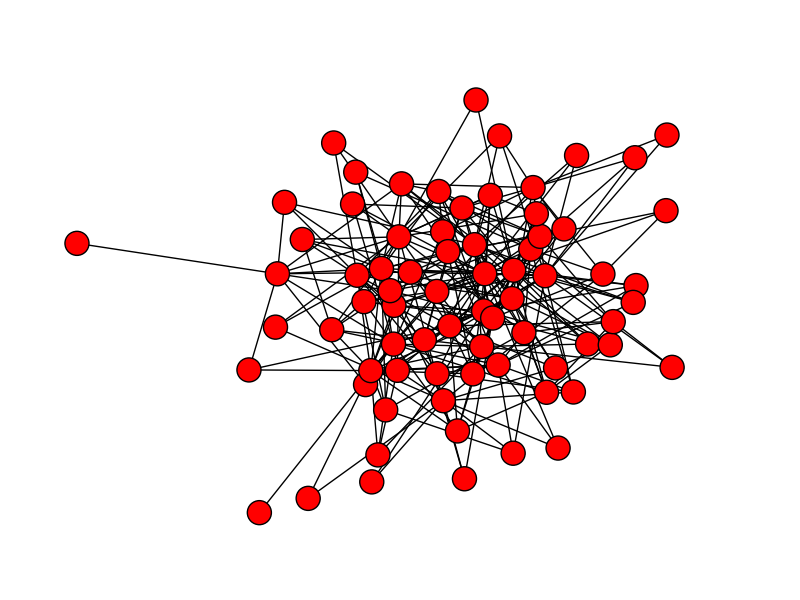
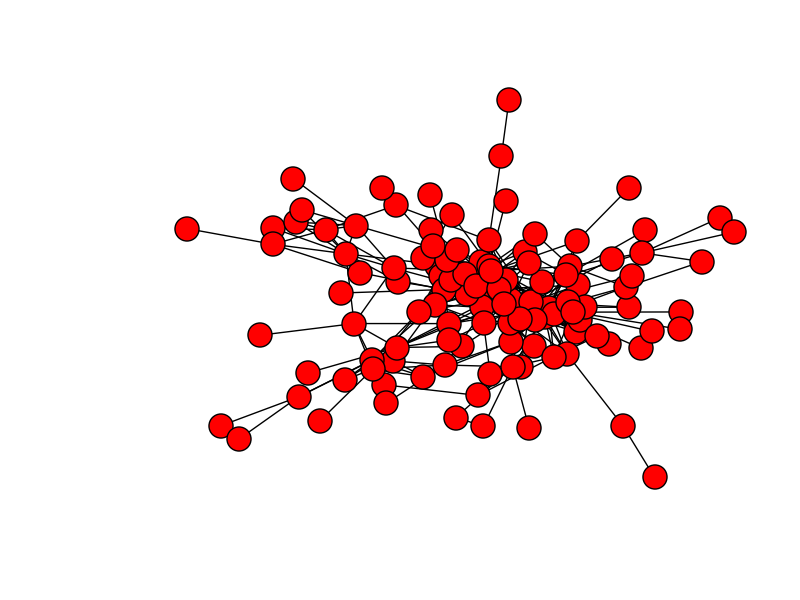
half gaussian method

Changed region(s): [[0.1875, 0.15, 0.9375, 0.9], [0.0625, 0.39, 0.1562, 0.42]]

diff --git a/similarityGraph2.py b/similarityGraph2.py
@@ -31,11 +31,10 @@ coefs = list()
 def embed_nodes(g, x, y):
     return dict((g.nodes()[i], (x[i],y[i])) for i in range(len(g.nodes())))
 
+joint_dict = dict()
 for key in dic3:
     for key1 in dic1:
         if(key!=key1):
-
-
             # print "Person: ", dic[key]
             # print "Person: ", dic1[key1]
             tfidf = vect.fit_transform([(dic[key]),(dic1[key1])])
@@ -43,27 +42,38 @@ for key in dic3:
             coefs.append(tfidf)
             #results.append(tfidf)
             prob = random.random()
-            if (tfidf > 0.2   or prob < 0.001):
+            joint_dict[str(key) + str(key1)] = tfidf
+
+
+# plt.hist(coefs)
+data = [c  for c in coefs ]
+mu = np.mean([c for c in coefs if c != 0])
+std = np.std([c for c in coefs if c != 0])
+
+for key in dic3:
+    for key1 in dic1:
+        if(key!=key1):
+            x = joint_dict[str(key) + str(key1)]
+            prob = random.random()
+            if( x - mu > 2* std  or prob < 0.00001):
                 G.add_edge(key,key1)
 
-plt.hist(coefs)
-print np.mean([c for c in coefs if c != 0])
-print np.sum([c for c in coefs if c != 0])
-print stats.mode([c for c in coefs if c != 0])
-print np.max([c for c in coefs if c != 0])
-print np.min([c for c in coefs if c != 0])
-print np.std([c for c in coefs if c != 0])
+
+binwidth = 0.007
+plt.hist(data, bins=np.arange(min(data), max(data) + binwidth, binwidth))
+
+
 plt.show()
 outdeg = G.degree()
-G.remove_nodes_from([n for n in outdeg if outdeg[n] == 0])
+G = max(nx.connected_component_subgraphs(G),key=len)
 
 lapgr = nx.laplacian_matrix(G)
 (w,v) = lin.eigh(lapgr.todense())
-emb = embed_nodes(G,v[:,1].ravel().tolist()[0],v[:,2].ravel().tolist()[0])
+emb = embed_nodes(G,v[:,1].ravel().tolist()[0], v[:,2].ravel().tolist()[0])
 # plt.figure(figsize=(,2))
-# nx.draw_networkx(G, pos=emb, node_size=10, with_labels=False)
-
-# nx.draw(G)
+nx.draw_networkx(G, pos=emb, node_size=100, with_labels=False)
+plt.show()
+nx.draw(G)
 
 
 # j=3
